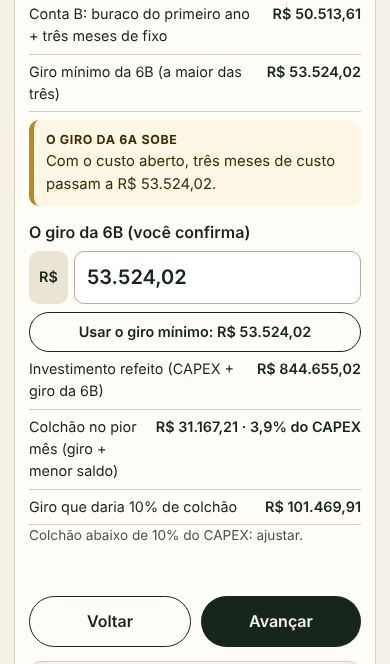
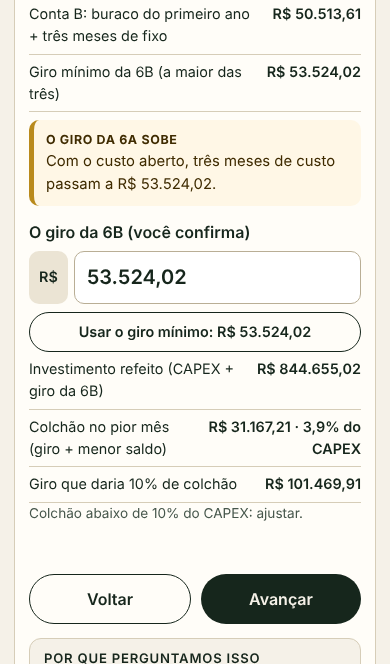
6B: ficha Faça agora · A sua conta (224 testes de lógica, 110 e2e no iPhone 13)
Claude-Session: https://claude.ai/code/session_01BzUk5Z24QEezPbs2zCke5y

Changed region(s): [[0.0615, 0.8434, 0.9231, 1.0], [0.0615, 0.6325, 0.9231, 0.8133]]

diff --git a/docs/trilha1/pilar6b/logic.js b/docs/trilha1/pilar6b/logic.js
@@ -696,11 +696,10 @@
   var NOME_PREMISSA = { imposto: "o imposto está em branco", taxa: "a taxa do seu dinheiro não foi escrita e a soma simples não decide", diaria: "a diária passa de 5% acima da medida no Pilar 2", ocupacao: "a ocupação passa da medida no Pilar 2", ocupacao65: "a ocupação passa de 65%" };
   function motivoVeredito(A) {
     if (!A) return "Complete a conta para ver a régua.";
-    var red = A.passos.filter(function (p) { return p.status === "redesenhar"; }).map(function (p) { return "passo " + p.n; });
-    var aj = A.passos.filter(function (p) { return p.status === "ajustar"; }).map(function (p) { return "passo " + p.n; });
-    if (A.sugerido === "Redesenhar") return "Redesenhar no " + juntar(red) + ": neste desenho a conta não fecha.";
+    var nos = function (st) { var n = A.passos.filter(function (p) { return p.status === st; }).map(function (p) { return String(p.n); }); return n.length === 1 ? "no passo " + n[0] : "nos passos " + juntar(n); };
+    if (A.sugerido === "Redesenhar") return "Redesenhar " + nos("redesenhar") + ": neste desenho a conta não fecha.";
     if (A.sugerido === "Testar") return "A régua dá " + (A.regua || "um resultado ainda pendente") + ", mas " + juntar(A.premissas.map(function (k) { return NOME_PREMISSA[k]; })) + ": prove antes de decidir.";
-    if (A.sugerido === "Ajustar") return "Ajustar no " + juntar(aj) + ": a conta fecha com folga curta.";
+    if (A.sugerido === "Ajustar") return "Ajustar " + nos("ajustar") + ": a conta fecha com folga curta.";
     if (A.sugerido === "Avançar") return "Os cinco passos passam, com os números medidos.";
     return "A régua ainda está pendente.";
   }

diff --git a/producao/trilha1-aprofundamento/02-viabilidade/src/logic.js b/producao/trilha1-aprofundamento/02-viabilidade/src/logic.js
@@ -696,11 +696,10 @@
   var NOME_PREMISSA = { imposto: "o imposto está em branco", taxa: "a taxa do seu dinheiro não foi escrita e a soma simples não decide", diaria: "a diária passa de 5% acima da medida no Pilar 2", ocupacao: "a ocupação passa da medida no Pilar 2", ocupacao65: "a ocupação passa de 65%" };
   function motivoVeredito(A) {
     if (!A) return "Complete a conta para ver a régua.";
-    var red = A.passos.filter(function (p) { return p.status === "redesenhar"; }).map(function (p) { return "passo " + p.n; });
-    var aj = A.passos.filter(function (p) { return p.status === "ajustar"; }).map(function (p) { return "passo " + p.n; });
-    if (A.sugerido === "Redesenhar") return "Redesenhar no " + juntar(red) + ": neste desenho a conta não fecha.";
+    var nos = function (st) { var n = A.passos.filter(function (p) { return p.status === st; }).map(function (p) { return String(p.n); }); return n.length === 1 ? "no passo " + n[0] : "nos passos " + juntar(n); };
+    if (A.sugerido === "Redesenhar") return "Redesenhar " + nos("redesenhar") + ": neste desenho a conta não fecha.";
     if (A.sugerido === "Testar") return "A régua dá " + (A.regua || "um resultado ainda pendente") + ", mas " + juntar(A.premissas.map(function (k) { return NOME_PREMISSA[k]; })) + ": prove antes de decidir.";
-    if (A.sugerido === "Ajustar") return "Ajustar no " + juntar(aj) + ": a conta fecha com folga curta.";
+    if (A.sugerido === "Ajustar") return "Ajustar " + nos("ajustar") + ": a conta fecha com folga curta.";
     if (A.sugerido === "Avançar") return "Os cinco passos passam, com os números medidos.";
     return "A régua ainda está pendente.";
   }

diff --git a/producao/trilha1-aprofundamento/02-viabilidade/tests/test_logic.js b/producao/trilha1-aprofundamento/02-viabilidade/tests/test_logic.js
@@ -85,7 +85,7 @@ t("Marina 7.8: o limite da página 6 com a margem aberta: 8 × 57.819,79 = 462.5
 // 7.9
 t("Marina 7.9: passos passa, passa, redesenhar, redesenhar, ajustar", A.passos.map((p) => p.status).join() === "passa,passa,redesenhar,redesenhar,ajustar");
 t("Marina 7.9: veredito sugerido «Redesenhar», sem premissa não provada", A.regua === "Redesenhar" && A.sugerido === "Redesenhar" && A.premissas.length === 0);
-t("Marina 7.9: o motivo do veredito cita os passos 3 e 4", Z.motivoVeredito(A) === "Redesenhar no passo 3 e passo 4: neste desenho a conta não fecha.");
+t("Marina 7.9: o motivo do veredito cita os passos 3 e 4", Z.motivoVeredito(A) === "Redesenhar nos passos 3 e 4: neste desenho a conta não fecha.");
 t("Marina 7.9: alertas B5, B7, B11 (os três da tela e do PDF) e B15, nessa ordem", al(EX).join() === "B5,B7,B11,B15" && Z.tresPrimeiros(Z.alertas(EX, C)).map((a) => a.id).join() === "B5,B7,B11");
 const AL = Z.alertas(EX, C);
 t("Marina: B5 diz que três meses de custo passam a R$ 53.524,02", /R\$ 53\.524,02/.test(AL[0].txt));

diff --git a/docs/trilha1/pilar6b/index.html b/docs/trilha1/pilar6b/index.html
@@ -182,6 +182,9 @@ tr.parte td{color:var(--texto-2);font-style:italic}
 .rotulo{display:inline-block;font-size:.72rem;font-weight:700;letter-spacing:.04em;text-transform:uppercase;background:var(--creme-2);color:var(--texto-2);border-radius:6px;padding:2px 6px;margin-left:4px}
 .mini th,.mini td{padding:5px 3px;font-size:.8rem}
 .alv-res{display:grid;grid-template-columns:1fr 1fr;gap:8px;margin-top:10px}
+.kv{align-items:flex-start}
+.kv span:first-child{min-width:0;flex:1 1 50%}
+.kv span:last-child{white-space:normal;overflow-wrap:anywhere;max-width:58%}
 </style>
 <body>
 <header class="topo"><div class="wrap"><div class="marca"><a href="../index.html"><b>Zion</b> · Método Zion</a></div><div class="etiqueta">Pilar 6<br>Aprofundamento 6B · Viabilidade</div></div></header>

diff --git a/producao/trilha1-aprofundamento/02-viabilidade/tests/test_e2e.js b/producao/trilha1-aprofundamento/02-viabilidade/tests/test_e2e.js
@@ -288,7 +288,7 @@ const MZ = { tela: 5, nome: "Marina", situacao: "terreno", dor: "" };
   await ctx.close();
 
   // ---------- fechamento ----------
-  log(telasSemRolagem.length >= 20 && telasSemRolagem.every(Boolean), `sem rolagem horizontal em ${telasSemRolagem.length} telas`);
+  log(telasSemRolagem.length >= 17 && telasSemRolagem.every(Boolean), `sem rolagem horizontal em ${telasSemRolagem.length} telas`);
   log(erros.length === 0, "sem erro de JavaScript" + (erros.length ? ": " + erros.join(" | ") : ""));
   log(externos.length === 0, "nenhum envio para fora (só o jsPDF e as fontes, servidos localmente)" + (externos.length ? ": " + externos.join(" ") : ""));
   await b.close(); srv.kill();
